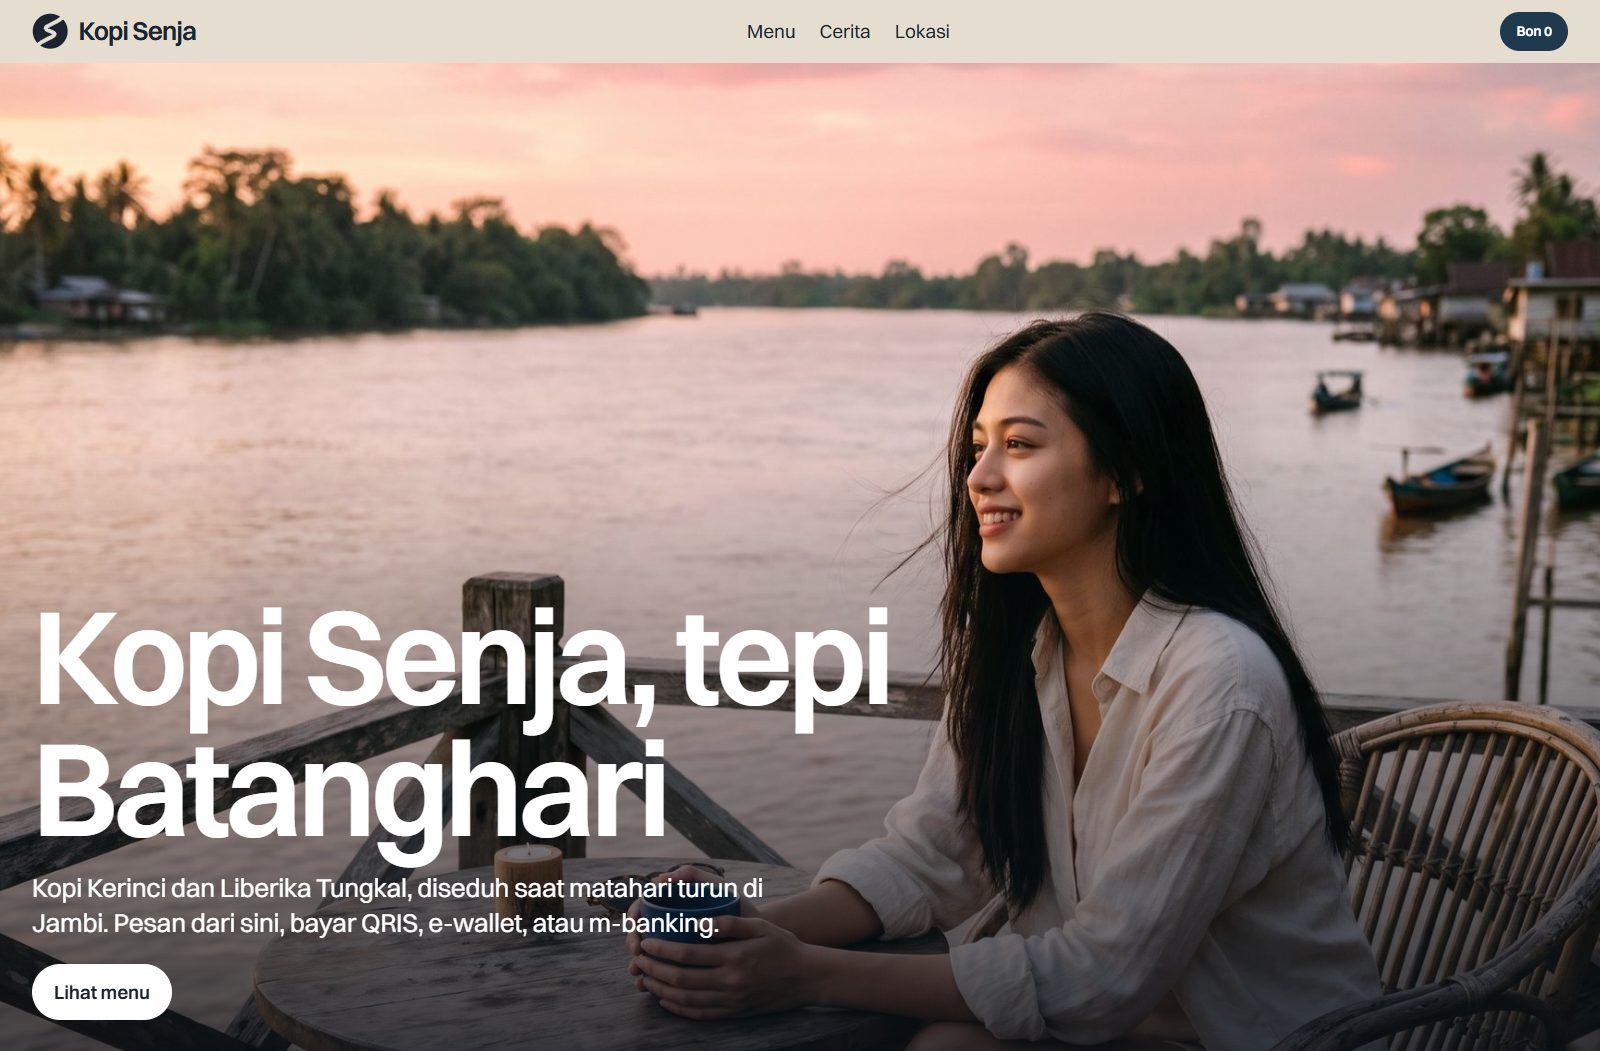
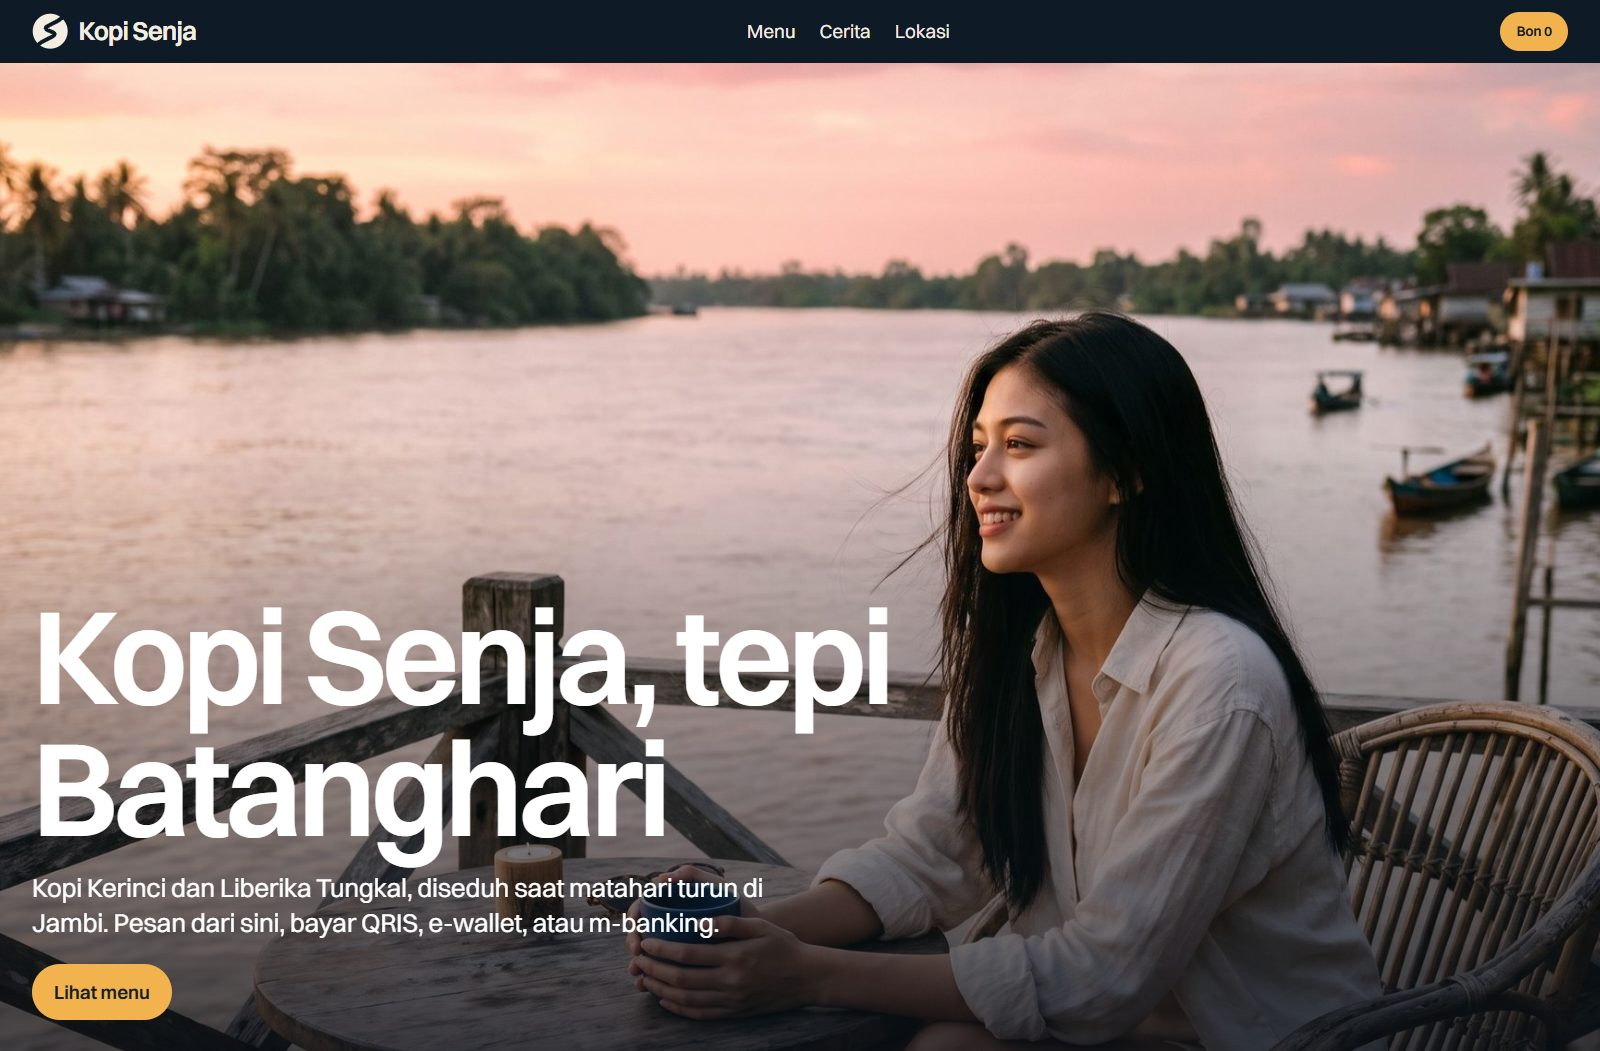
Kopi Senja: tema malam biru sungai dan kuning lentera

Changed region(s): [[0.0, 0.0, 1.0, 0.0609], [0.0, 0.9134, 0.125, 0.9743]]

diff --git a/kopi-senja/senja.css b/kopi-senja/senja.css
@@ -203,3 +203,35 @@ form h2 { margin-bottom: 28px; }
   .tiles--senja .tile__foto, .tiles--senja .tile--besar .tile__foto { flex: none; aspect-ratio: 1; }
   .kontak a { grid-template-columns: 1fr; gap: 0; }
 }
+
+/* tema malam: biru sungai + kuning lentera, foto yang bicara */
+:root { --bg: #0E1B26; --surface: #1B2F3E; --ink: #F3EDE2; --muted: #BCC6CC; --accent: #F2B24E; --accent-ink: #14202B; --paper: #F3EDE2; }
+:focus-visible { outline-color: var(--accent); }
+.ribbon { background: #070F16; }
+.bar { background: var(--bg); }
+.hero { background: #132633; }
+.hero__item h2, .jam h3 { color: var(--langit); transition: color .4s; }
+.btn--hero { background: var(--accent); color: var(--accent-ink); }
+.arrow { background: var(--surface); color: var(--ink); }
+.langit:nth-of-type(even) { background: #132633; }
+.langit .tile__info p { opacity: 1; color: var(--muted); }
+.langit--gelap .btn { background: var(--accent); color: var(--accent-ink); }
+.cerita { background: #0A151E; }
+.f input { background: var(--surface); }
+.f input::placeholder { color: var(--muted); }
+.seg span { background: var(--surface); }
+.seg input:checked + span { background: var(--accent); color: var(--accent-ink); }
+.pay { background: var(--surface); }
+.qris svg { padding: 8px; background: #fff; fill: #14202B; }
+.akun button { background: var(--bg); }
+.err { color: #FFA794; }
+.struk { color: #14202B; }
+.struk > p:first-of-type, .struk small, .struk .kosong { color: #4A525B; }
+.qty button { background: #E2D9C9; color: #14202B; }
+.lokasi { position: relative; background: url(img/suasana-lampu.jpg) center 45% / cover; color: #fff; padding-block: clamp(96px, 13vw, 190px); }
+.lokasi::before { content: ""; position: absolute; inset: 0; background: rgba(7, 15, 22, .62); }
+.lokasi__grid { position: relative; }
+.foot { background: #070F16; color: var(--ink); }
+.floatbon { background: var(--accent); color: var(--accent-ink); }
+.btn--terang { background: var(--accent); color: var(--accent-ink); }
+.tiles--malam .tile__foto--lepas img { object-fit: cover; padding: 0; }

diff --git a/kopi-senja/senja.js b/kopi-senja/senja.js
@@ -9,7 +9,7 @@
   const LANGIT = {
     sore: { warna: "#F2B24E", tinta: "#1C2430", judul: "Sore, jam tiga", isi: "Panas mulai turun. Kopi seduh dan teh dingin." },
     senja: { warna: "#F0667A", tinta: "#1C2430", judul: "Senja, jam enam", isi: "Langit merah muda di atas sungai. Es kopi andalan kedai." },
-    malam: { warna: "#1E3A4C", foto: "#8FB0BF", tinta: "#FFFFFF", judul: "Malam, jam delapan", isi: "Lampu menyala. Minuman hangat sampai tutup." },
+    malam: { warna: "#1E3A4C", aksen: "#8FB0BF", foto: "#8FB0BF", tinta: "#FFFFFF", judul: "Malam, jam delapan", isi: "Lampu menyala. Minuman hangat sampai tutup." },
     teman: { warna: "#E9B9A5", tinta: "#1C2430", judul: "Teman kopi", isi: "Kudapan khas Jambi, dibuat setiap hari." }
   };
   const MENU = [
@@ -77,7 +77,7 @@
 
   /* ---------- menu ---------- */
   $("#menu").innerHTML = `<div class="wrap menu__judul"><h2>Menu, dari sore sampai malam</h2></div>` + Object.entries(LANGIT).map(([k, L]) => `
-    <section class="langit ${k === "malam" ? "langit--gelap" : ""}" style="background:${L.warna};color:${L.tinta}" aria-label="${L.judul}">
+    <section class="langit" style="--langit:${L.aksen || L.warna}" aria-label="${L.judul}">
       <div class="wrap">
         <div class="jam"><h3>${L.judul}</h3><p>${L.isi}</p></div>
         <div class="tiles tiles--${k}">${MENU.filter(m => m.l === k).map(m => `<article class="tile ${m.besar ? "tile--besar" : ""}">
@@ -95,7 +95,7 @@
   $("#arc").innerHTML = PILIH.map((m, i) => `<button type="button" class="arc__item" data-arc="${i}" aria-label="Lihat ${esc(m.n)}">${gambar(m)}</button>`).join("");
   function hero() {
     const n = PILIH.length, m = PILIH[cur], L = LANGIT[m.l];
-    const h = $("#hero"); h.style.background = L.warna; h.style.color = L.tinta;
+    $("#hero").style.setProperty("--langit", L.aksen || L.warna);
     const lebar = innerWidth, langkah = Math.min(250, lebar * .24);
     $$(".arc__item").forEach((el, i) => {
       let d = i - cur; if (d > n / 2) d -= n; if (d < -n / 2) d += n;

diff --git a/kopi-senja/index.html b/kopi-senja/index.html
@@ -9,7 +9,7 @@
 <link rel="preconnect" href="https://cdn.fontshare.com" crossorigin>
 <link href="https://api.fontshare.com/v2/css?f[]=switzer@400,500,600&display=swap" rel="stylesheet">
 <link rel="icon" href="img/logo-kopi-senja.svg" type="image/svg+xml">
-<link rel="stylesheet" href="senja.css?v=9">
+<link rel="stylesheet" href="senja.css?v=11">
 </head>
 <body>
 <p class="ribbon">Ini contoh website buatan alvenix, pesanan di sini tidak diproses kedai. <a href="../">Bikin seperti ini</a></p>
@@ -108,6 +108,6 @@
 
 <script src="../config.js?v=20261030y"></script>
 <script src="../shared.js?v=20261030f"></script>
-<script src="senja.js?v=7"></script>
+<script src="senja.js?v=8"></script>
 </body>
 </html>
